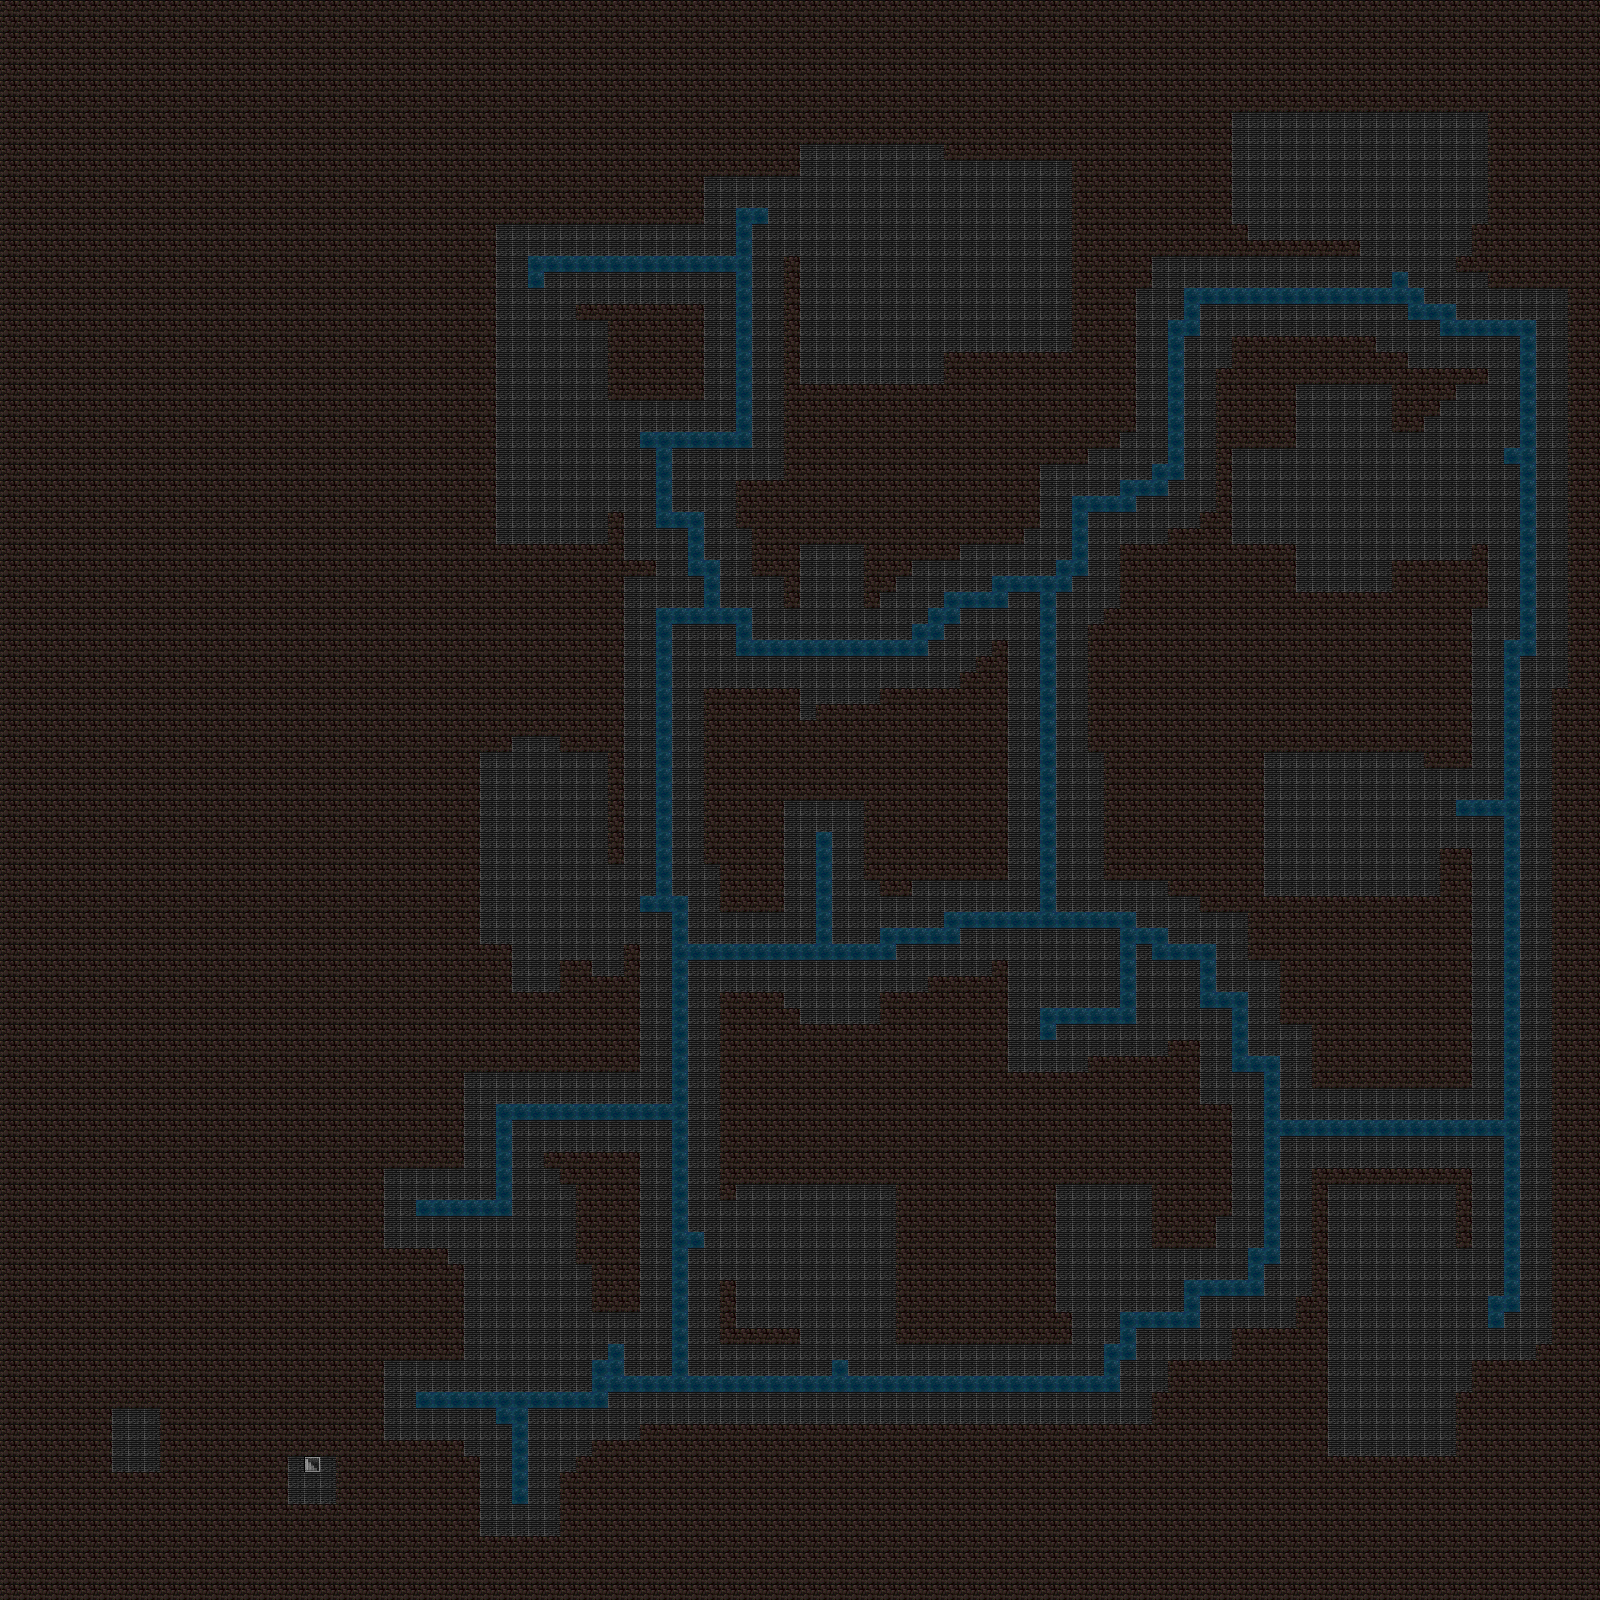
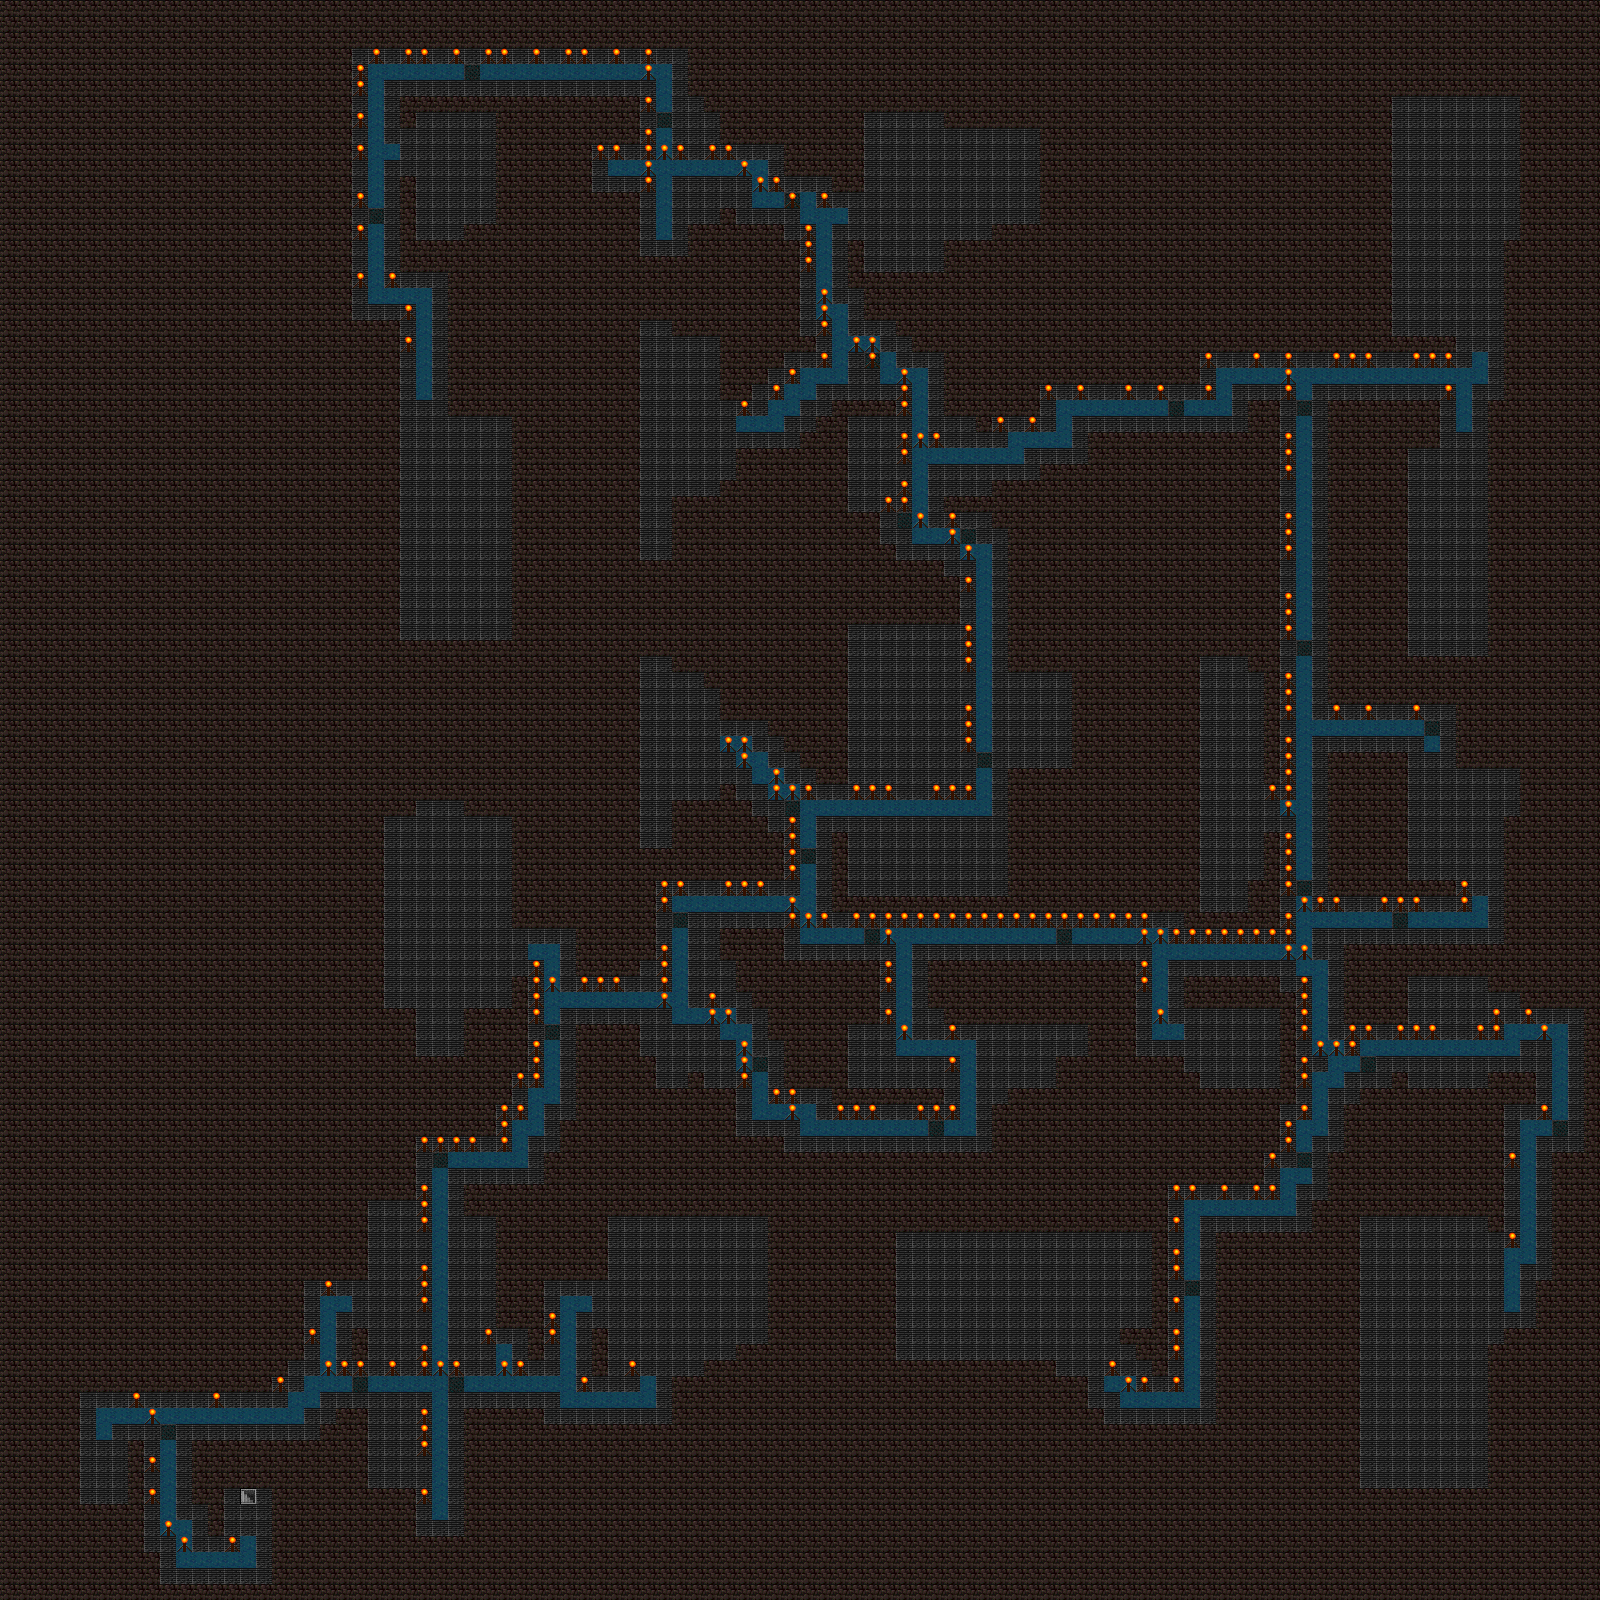
Corridors support 'Center' and 'Side' features. Has bugs though.

Changed region(s): [[0.0312, 0.0312, 1.0, 1.0]]

diff --git a/core/src/Roguelike/DungeonGeneration/RecursiveDockGenerator.java b/core/src/Roguelike/DungeonGeneration/RecursiveDockGenerator.java
@@ -95,7 +95,7 @@ public class RecursiveDockGenerator
 						HashSet<Direction> validDirections = new HashSet<Direction>();
 						for (Direction dir : Direction.values())
 						{
-							boolean passable = symbolGrid[x+dir.GetX()][y+dir.GetY()].isPassable();
+							boolean passable = symbolGrid[x+dir.GetX()][y+dir.GetY()] == dfp.sharedSymbolMap.get('#');
 							if (!passable) { validDirections.add(dir); }
 						}
 						
@@ -123,6 +123,7 @@ public class RecursiveDockGenerator
 						}
 						
 						entity.location = location;
+						entity.sprite.rotation = location.GetAngle();
 					}
 					
 					newTile.addEnvironmentEntity(entity);
@@ -724,6 +725,9 @@ public class RecursiveDockGenerator
 	//----------------------------------------------------------------------
 	protected void carveCorridor(int[][] path)
 	{	
+		int centralCount = 0;
+		int sideCount = 0;
+		
 		for (int[] pos : path)
 		{
 			GenerationTile t = tiles[pos[0]][pos[1]];	
@@ -742,9 +746,59 @@ public class RecursiveDockGenerator
 				}
 			}
 			
-			t = tiles[pos[0]+dfp.corridorStyle.width/2][pos[1]+dfp.corridorStyle.width/2];
-			t.symbol = dfp.sharedSymbolMap.get(',');
+			if (dfp.corridorStyle.centralConstant != null)
+			{
+				t = tiles[pos[0]+dfp.corridorStyle.width/2][pos[1]+dfp.corridorStyle.width/2];
+				t.symbol = dfp.corridorStyle.centralConstant.getAsSymbol(t.symbol);
+			}
 			
+			if (dfp.corridorStyle.centralRecurring != null)
+			{
+				centralCount++;
+				
+				if (centralCount == dfp.corridorStyle.centralRecurring.interval)
+				{
+					t = tiles[pos[0]+dfp.corridorStyle.width/2][pos[1]+dfp.corridorStyle.width/2];
+					t.symbol = dfp.corridorStyle.centralRecurring.getAsSymbol(t.symbol);
+					
+					centralCount = 0;
+				}
+			}
+			
+			if (dfp.corridorStyle.sideRecurring != null)
+			{
+				sideCount++;
+				
+				if (sideCount == dfp.corridorStyle.sideRecurring.interval)
+				{
+					Symbol wall = dfp.sharedSymbolMap.get('#');
+					if (tiles[pos[0]-1][pos[1]+dfp.corridorStyle.width/2].symbol == wall)
+					{
+						t = tiles[pos[0]][pos[1]+dfp.corridorStyle.width/2];
+						t.symbol = dfp.corridorStyle.sideRecurring.getAsSymbol(t.symbol);
+					}
+					
+					if (tiles[pos[0]+dfp.corridorStyle.width][pos[1]+dfp.corridorStyle.width/2].symbol == wall)
+					{
+						t = tiles[pos[0]+dfp.corridorStyle.width-1][pos[1]+dfp.corridorStyle.width/2];
+						t.symbol = dfp.corridorStyle.sideRecurring.getAsSymbol(t.symbol);
+					}
+					
+					if (tiles[pos[0]+dfp.corridorStyle.width/2][pos[1]-1].symbol == wall)
+					{
+						t = tiles[pos[0]+dfp.corridorStyle.width/2][pos[1]];
+						t.symbol = dfp.corridorStyle.sideRecurring.getAsSymbol(t.symbol);
+					}
+					
+					if (tiles[pos[0]+dfp.corridorStyle.width/2][pos[1]+dfp.corridorStyle.width].symbol == wall)
+					{
+						t = tiles[pos[0]+dfp.corridorStyle.width/2][pos[1]+dfp.corridorStyle.width-1];
+						t.symbol = dfp.corridorStyle.sideRecurring.getAsSymbol(t.symbol);
+					}
+					
+					sideCount = 0;
+				}
+			}
 		}		
 	}
 
@@ -879,7 +933,7 @@ public class RecursiveDockGenerator
 	
 	public int depth;
 	
-	private static final boolean DEBUG_OUTPUT = true;
+	private static final boolean DEBUG_OUTPUT = false;
 	private static final int DEBUG_SIZE = 16;
 
 	private GenerationTile[][] tiles;

diff --git a/core/src/Roguelike/DungeonGeneration/DungeonFileParser.java b/core/src/Roguelike/DungeonGeneration/DungeonFileParser.java
@@ -5,6 +5,8 @@ import java.util.HashMap;
 import java.util.HashSet;
 import java.util.Random;
 
+import Roguelike.DungeonGeneration.FactionParser.Feature;
+import Roguelike.DungeonGeneration.FactionParser.FeaturePlacementType;
 import Roguelike.DungeonGeneration.RecursiveDockGenerator.Room;
 import Roguelike.Entity.EnvironmentEntity;
 import Roguelike.Pathfinding.PathfindingTile;
@@ -24,7 +26,8 @@ public class DungeonFileParser
 	{
 		OVERLAPPINGRECTS,
 		CELLULARAUTOMATA,
-		STARBURST
+		STARBURST,
+		NONE
 	}
 	
 	//----------------------------------------------------------------------
@@ -39,10 +42,61 @@ public class DungeonFileParser
 		
 		public int width;
 		
+		public CorridorFeature centralConstant;
+		public CorridorFeature centralRecurring;
+		public CorridorFeature sideRecurring;
+		
 		public void parse(Element xml)
 		{
 			pathStyle = PathStyle.valueOf(xml.get("PathStyle", "Straight").toUpperCase());
 			width = xml.getInt("Width", 2);
+			
+			Element centralConstantElement = xml.getChildByName("CentralConstant");
+			if (centralConstantElement != null)
+			{
+				centralConstant = CorridorFeature.load(centralConstantElement);
+			}
+			
+			Element centralRecurringElement = xml.getChildByName("CentralRecurring");
+			if (centralRecurringElement != null)
+			{
+				centralRecurring = CorridorFeature.load(centralRecurringElement);
+			}
+			
+			Element sideRecurringElement = xml.getChildByName("SideRecurring");
+			if (sideRecurringElement != null)
+			{
+				sideRecurring = CorridorFeature.load(sideRecurringElement);
+			}
+		}
+	}
+	
+	public static class CorridorFeature
+	{
+		public Element tileData;		
+		public Element environmentData;
+		
+		public int interval;
+		
+		public static CorridorFeature load(Element xml)
+		{
+			CorridorFeature feature = new CorridorFeature();	
+			
+			feature.interval = xml.getInt("Interval", 0);
+			feature.tileData = xml.getChildByName("TileData");
+			feature.environmentData = xml.getChildByName("EnvironmentData");			
+			
+			return feature;
+		}
+		
+		public Symbol getAsSymbol(Symbol current)
+		{
+			Symbol symbol = current.copy();
+			symbol.character = 'F';
+			symbol.tileData = tileData != null ? tileData : current.tileData;
+			symbol.environmentData = environmentData != null ? environmentData : current.environmentData;
+			
+			return symbol;
 		}
 	}
 	

diff --git a/core/src/Roguelike/DungeonGeneration/FactionParser.java b/core/src/Roguelike/DungeonGeneration/FactionParser.java
@@ -82,16 +82,8 @@ public class FactionParser
 		Element featuresElement = xmlElement.getChildByName("Features");
 		for (Element featureElement : featuresElement.getChildrenByName("Feature"))
 		{
-			Feature feature = new Feature();
-			feature.minRange = featureElement.getInt("RangeMin", 0);
-			feature.maxRange = featureElement.getInt("RangeMax", 100);
-			feature.coverage = featureElement.getInt("Coverage", 50);
-			feature.tileData = featureElement.getChildByName("TileData");
-			feature.environmentData = featureElement.getChildByName("EnvironmentData");
-			
-			FeaturePlacementType type = FeaturePlacementType.valueOf(featureElement.get("Placement").toUpperCase());
-			
-			features.get(type).add(feature);
+			Feature feature = Feature.load(featureElement);			
+			features.get(feature.type).add(feature);
 		}
 			
 		Element encounterElement = xmlElement.getChildByName("Encounters");
@@ -202,6 +194,21 @@ public class FactionParser
 		public int maxRange;
 		
 		public int coverage;
+		
+		public FeaturePlacementType type;
+		
+		public static Feature load(Element xml)
+		{
+			Feature feature = new Feature();
+			feature.minRange = xml.getInt("RangeMin", 0);
+			feature.maxRange = xml.getInt("RangeMax", 100);
+			feature.coverage = xml.getInt("Coverage", 50);
+			feature.tileData = xml.getChildByName("TileData");
+			feature.environmentData = xml.getChildByName("EnvironmentData");			
+			feature.type = FeaturePlacementType.valueOf(xml.get("Placement").toUpperCase());
+			
+			return feature;
+		}
 		
 		public Symbol getAsSymbol(Symbol current)
 		{

diff --git a/core/src/Roguelike/Screens/GameScreen.java b/core/src/Roguelike/Screens/GameScreen.java
@@ -78,8 +78,6 @@ public class GameScreen implements Screen, InputProcessor
 		Instance = this;
 		
 		create();
-		
-		Pathfinder.PathfinderTest.runTests();
 	}
 	
 	private void create()
@@ -268,7 +266,7 @@ public class GameScreen implements Screen, InputProcessor
 						else
 						{
 							Direction dir = gtile.environmentEntity.location;
-							gtile.environmentEntity.sprite.render(batch, cx + tileSize3*(dir.GetX()+1), cy + tileSize3*(dir.GetY()+1), tileSize3, tileSize3);
+							gtile.environmentEntity.sprite.render(batch, cx + tileSize3*(dir.GetX()*-1+1), cy + tileSize3*(dir.GetY()*-1+1), tileSize3, tileSize3);
 						}
 
 						if (gtile.environmentEntity.HP < gtile.environmentEntity.statistics.get(Statistic.MAXHP) || gtile.environmentEntity.stacks.size > 0)
